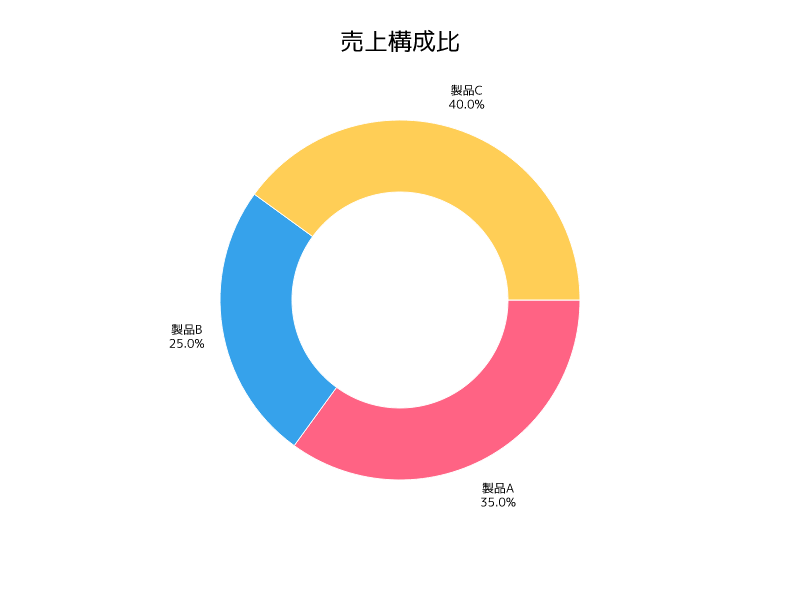
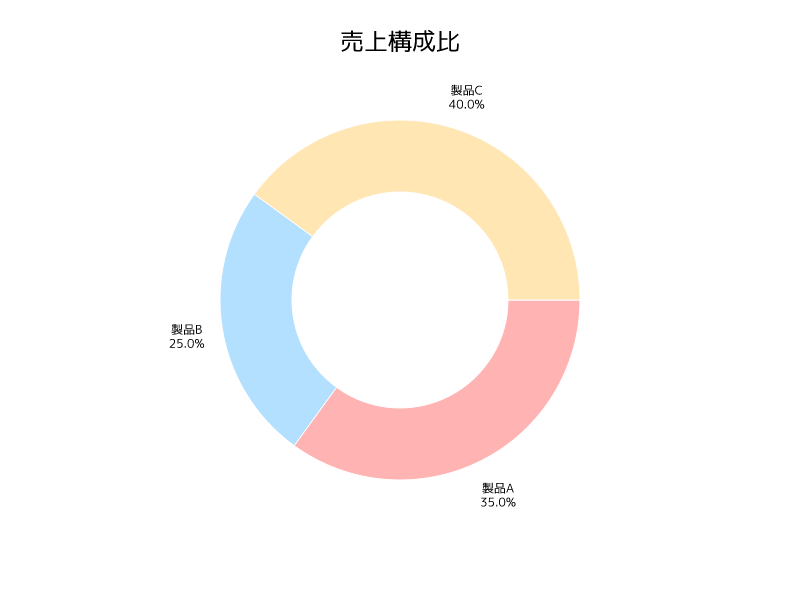
🎨 Update chart colors to pastel palette

Changed region(s): [[0.25, 0.18, 0.75, 0.81]]

diff --git a/src/lib.rs b/src/lib.rs
@@ -339,11 +339,7 @@ fn generate_bar_chart_svg(data: &[f64]) -> String {
             let text_x = x + (bar_width * 0.4);
             let text_y = y + (height / 2.0);
             format!(
-                r#"<rect x="{}" y="{}" width="{}" height="{}" fill="blue"/>
-                <path d="M {} {} h 0" stroke="white" stroke-width="1"/>
-                <path d="M {} {} h 0" stroke="black" stroke-width="1"/>
-                <path d="M {} {} h 0" stroke="white" stroke-width="2" fill="none"/>
-                {}"#,
+                "<rect x=\"{}\" y=\"{}\" width=\"{}\" height=\"{}\" fill=\"#B3E0FF\"/><path d=\"M {} {} h 0\" stroke=\"white\" stroke-width=\"1\"/><path d=\"M {} {} h 0\" stroke=\"black\" stroke-width=\"1\"/><path d=\"M {} {} h 0\" stroke=\"white\" stroke-width=\"2\" fill=\"none\"/>{}>",
                 x,
                 y,
                 bar_width * 0.8,
@@ -390,8 +386,7 @@ fn generate_line_chart_svg(data: &[f64]) -> String {
             let x = i as f64 * segment_width;
             let y = 400.0 - (value * scale);
             format!(
-                r#"<circle cx="{}" cy="{}" r="4" fill="blue"/>
-            {}"#,
+                "<circle cx=\"{}\" cy=\"{}\" r=\"4\" fill=\"#B3E0FF\"/>{}>",
                 x,
                 y,
                 generate_value_text(x, y - 15.0, value)
@@ -401,8 +396,7 @@ fn generate_line_chart_svg(data: &[f64]) -> String {
         .join("\n");
 
     format!(
-        r#"<path d="{}" stroke="blue" stroke-width="2" fill="none"/>
-        {}"#,
+        "<path d=\"{}\" stroke=\"#B3E0FF\" stroke-width=\"2\" fill=\"none\"/>{}>",
         path_data, points
     )
 }
@@ -418,8 +412,7 @@ fn generate_scatter_chart_svg(data: &[f64]) -> String {
             let x = i as f64 * segment_width;
             let y = 400.0 - (value * scale);
             format!(
-                r#"<circle cx="{}" cy="{}" r="6" fill="blue"/>
-                {}"#,
+                "<circle cx=\"{}\" cy=\"{}\" r=\"6\" fill=\"#B3E0FF\"/>{}>",
                 x,
                 y,
                 generate_value_text(x, y - 15.0, value)
@@ -452,7 +445,7 @@ fn generate_pie_chart_svg(series: &[Series], is_donut: bool) -> String {
     let radius = 180.0;
     let inner_radius = if is_donut { radius * 0.6 } else { 0.0 };
     let colors = vec![
-        "#FF6384", "#36A2EB", "#FFCE56", "#4BC0C0", "#9966FF", "#FF9F40",
+        "#FFB3B3", "#B3E0FF", "#FFE6B3", "#B3FFB3", "#E6B3FF", "#FFD9B3",
     ];
 
     let mut paths = String::new();
@@ -533,7 +526,7 @@ fn generate_area_chart_svg(series: &[Series]) -> String {
         .fold(f64::NEG_INFINITY, f64::max);
 
     let colors = vec![
-        "#FF6384", "#36A2EB", "#FFCE56", "#4BC0C0", "#9966FF", "#FF9F40",
+        "#FFB3B3", "#B3E0FF", "#FFE6B3", "#B3FFB3", "#E6B3FF", "#FFD9B3",
     ];
     let mut paths = String::new();
 
@@ -578,11 +571,9 @@ fn generate_area_chart_svg(series: &[Series]) -> String {
             let x = i as f64 * segment_width;
             let y = 400.0 - (data.value * scale);
             paths.push_str(&format!(
-                r#"<circle cx="{}" cy="{}" r="4" fill="{}"/>
-                {}"#,
+                "<circle cx=\"{}\" cy=\"{}\" r=\"4\" fill=\"#B3E0FF\"/>{}>",
                 x,
                 y,
-                color,
                 generate_value_text(x, y - 15.0, data.value)
             ));
         }
@@ -607,7 +598,7 @@ fn generate_radar_chart_svg(series: &[Series]) -> String {
     let center_y = 0.0;
     let radius = 180.0;
     let colors = vec![
-        "#FF6384", "#36A2EB", "#FFCE56", "#4BC0C0", "#9966FF", "#FF9F40",
+        "#FFB3B3", "#B3E0FF", "#FFE6B3", "#B3FFB3", "#E6B3FF", "#FFD9B3",
     ];
 
     let mut svg = String::new();
